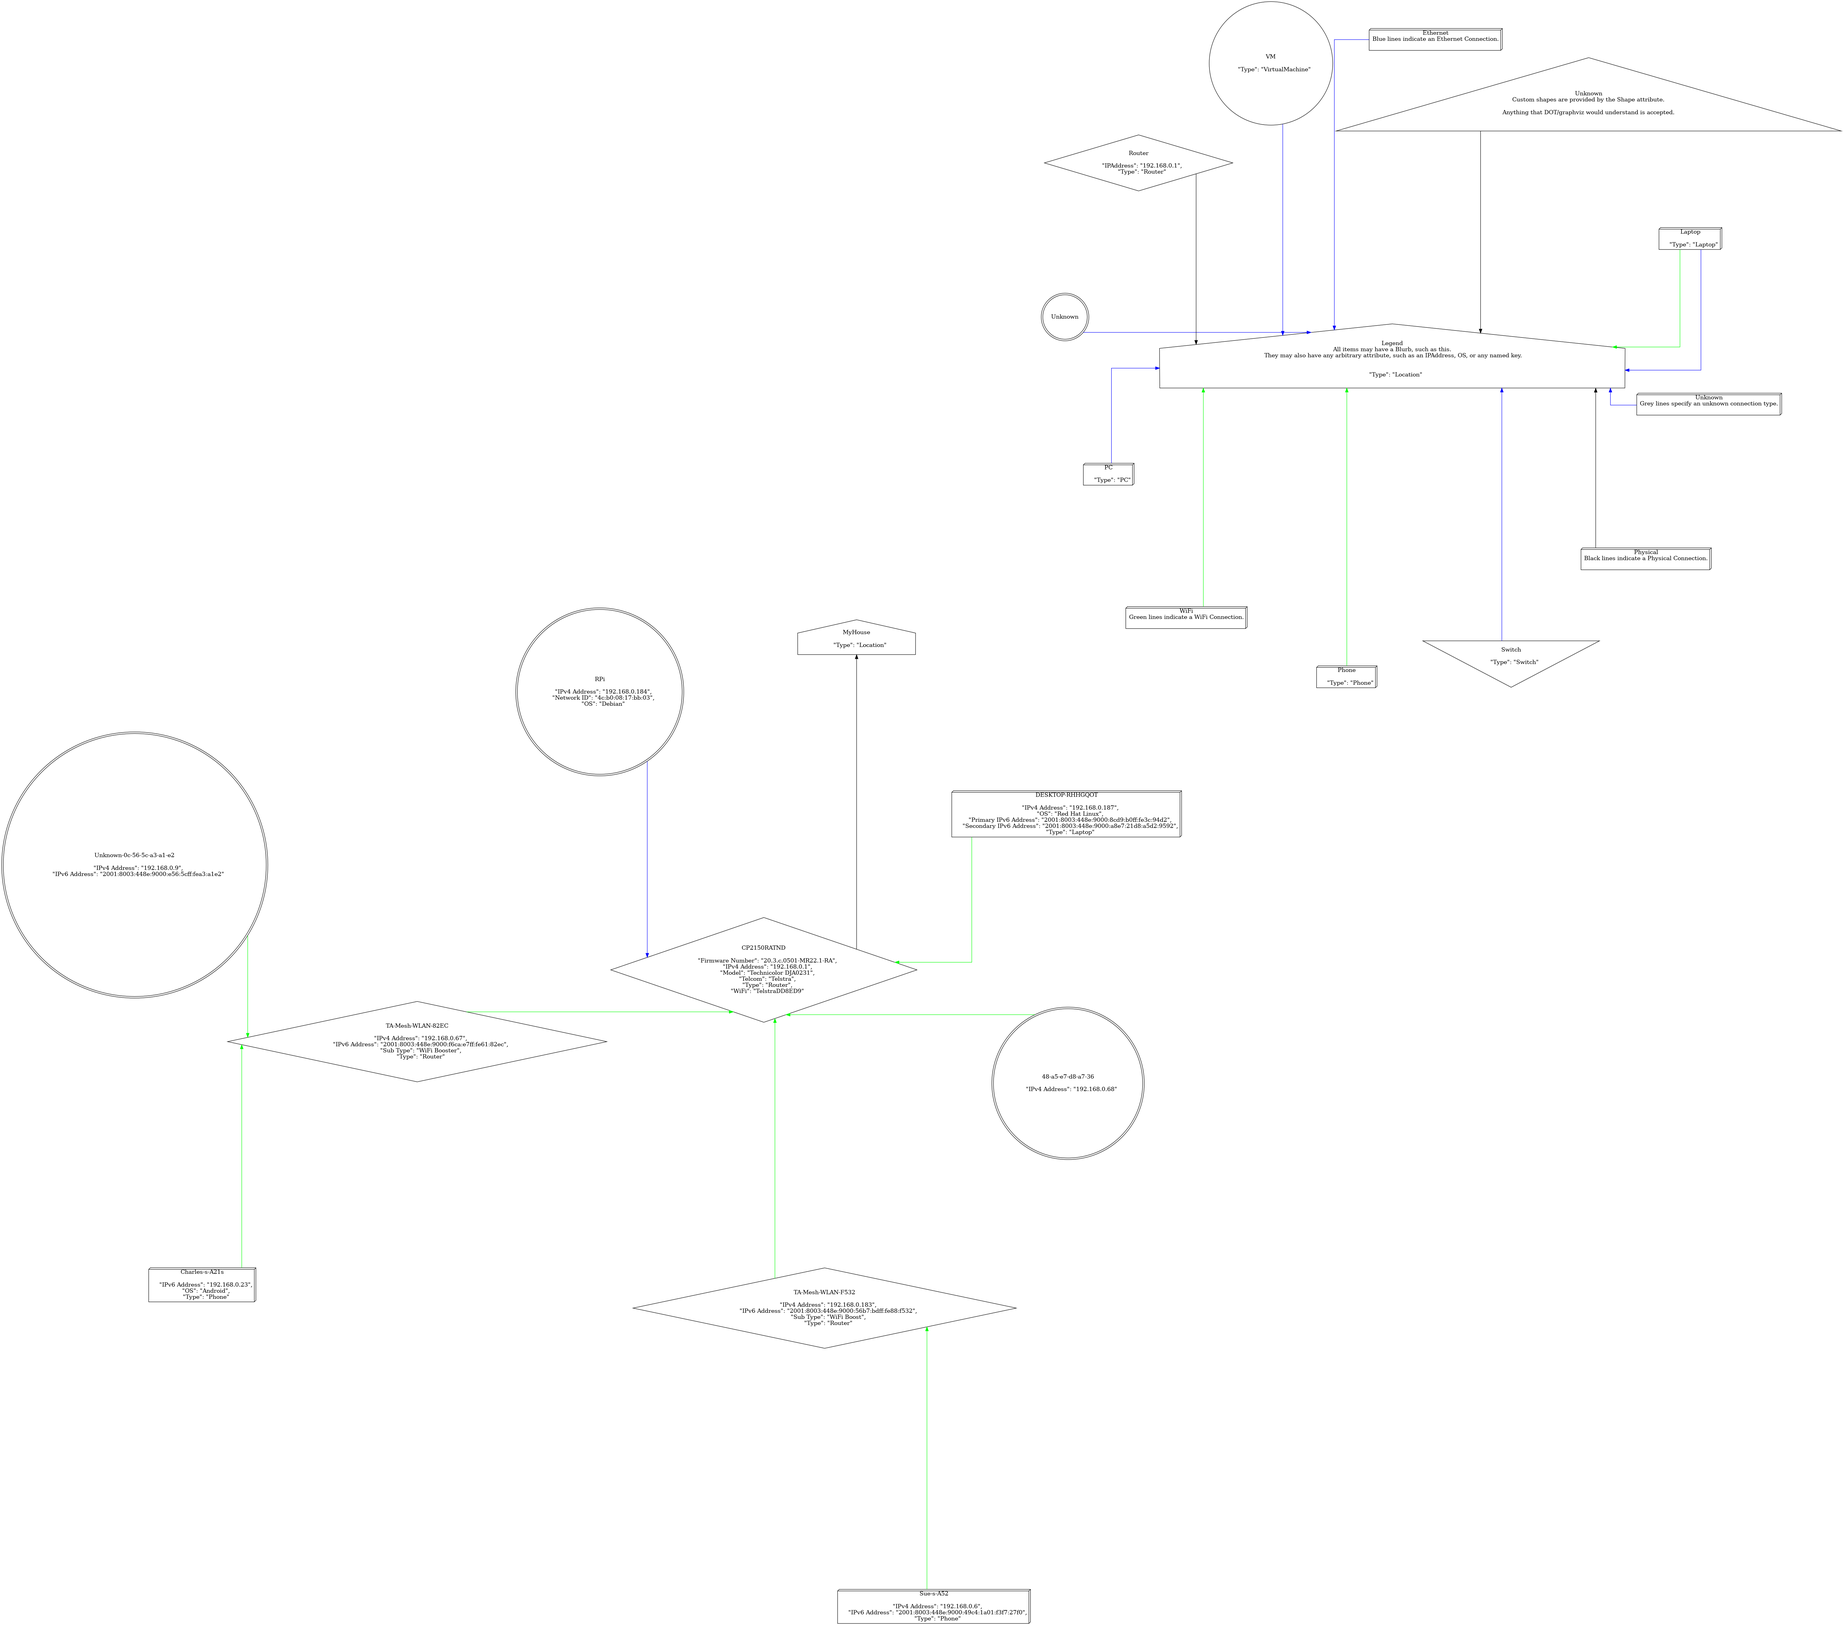
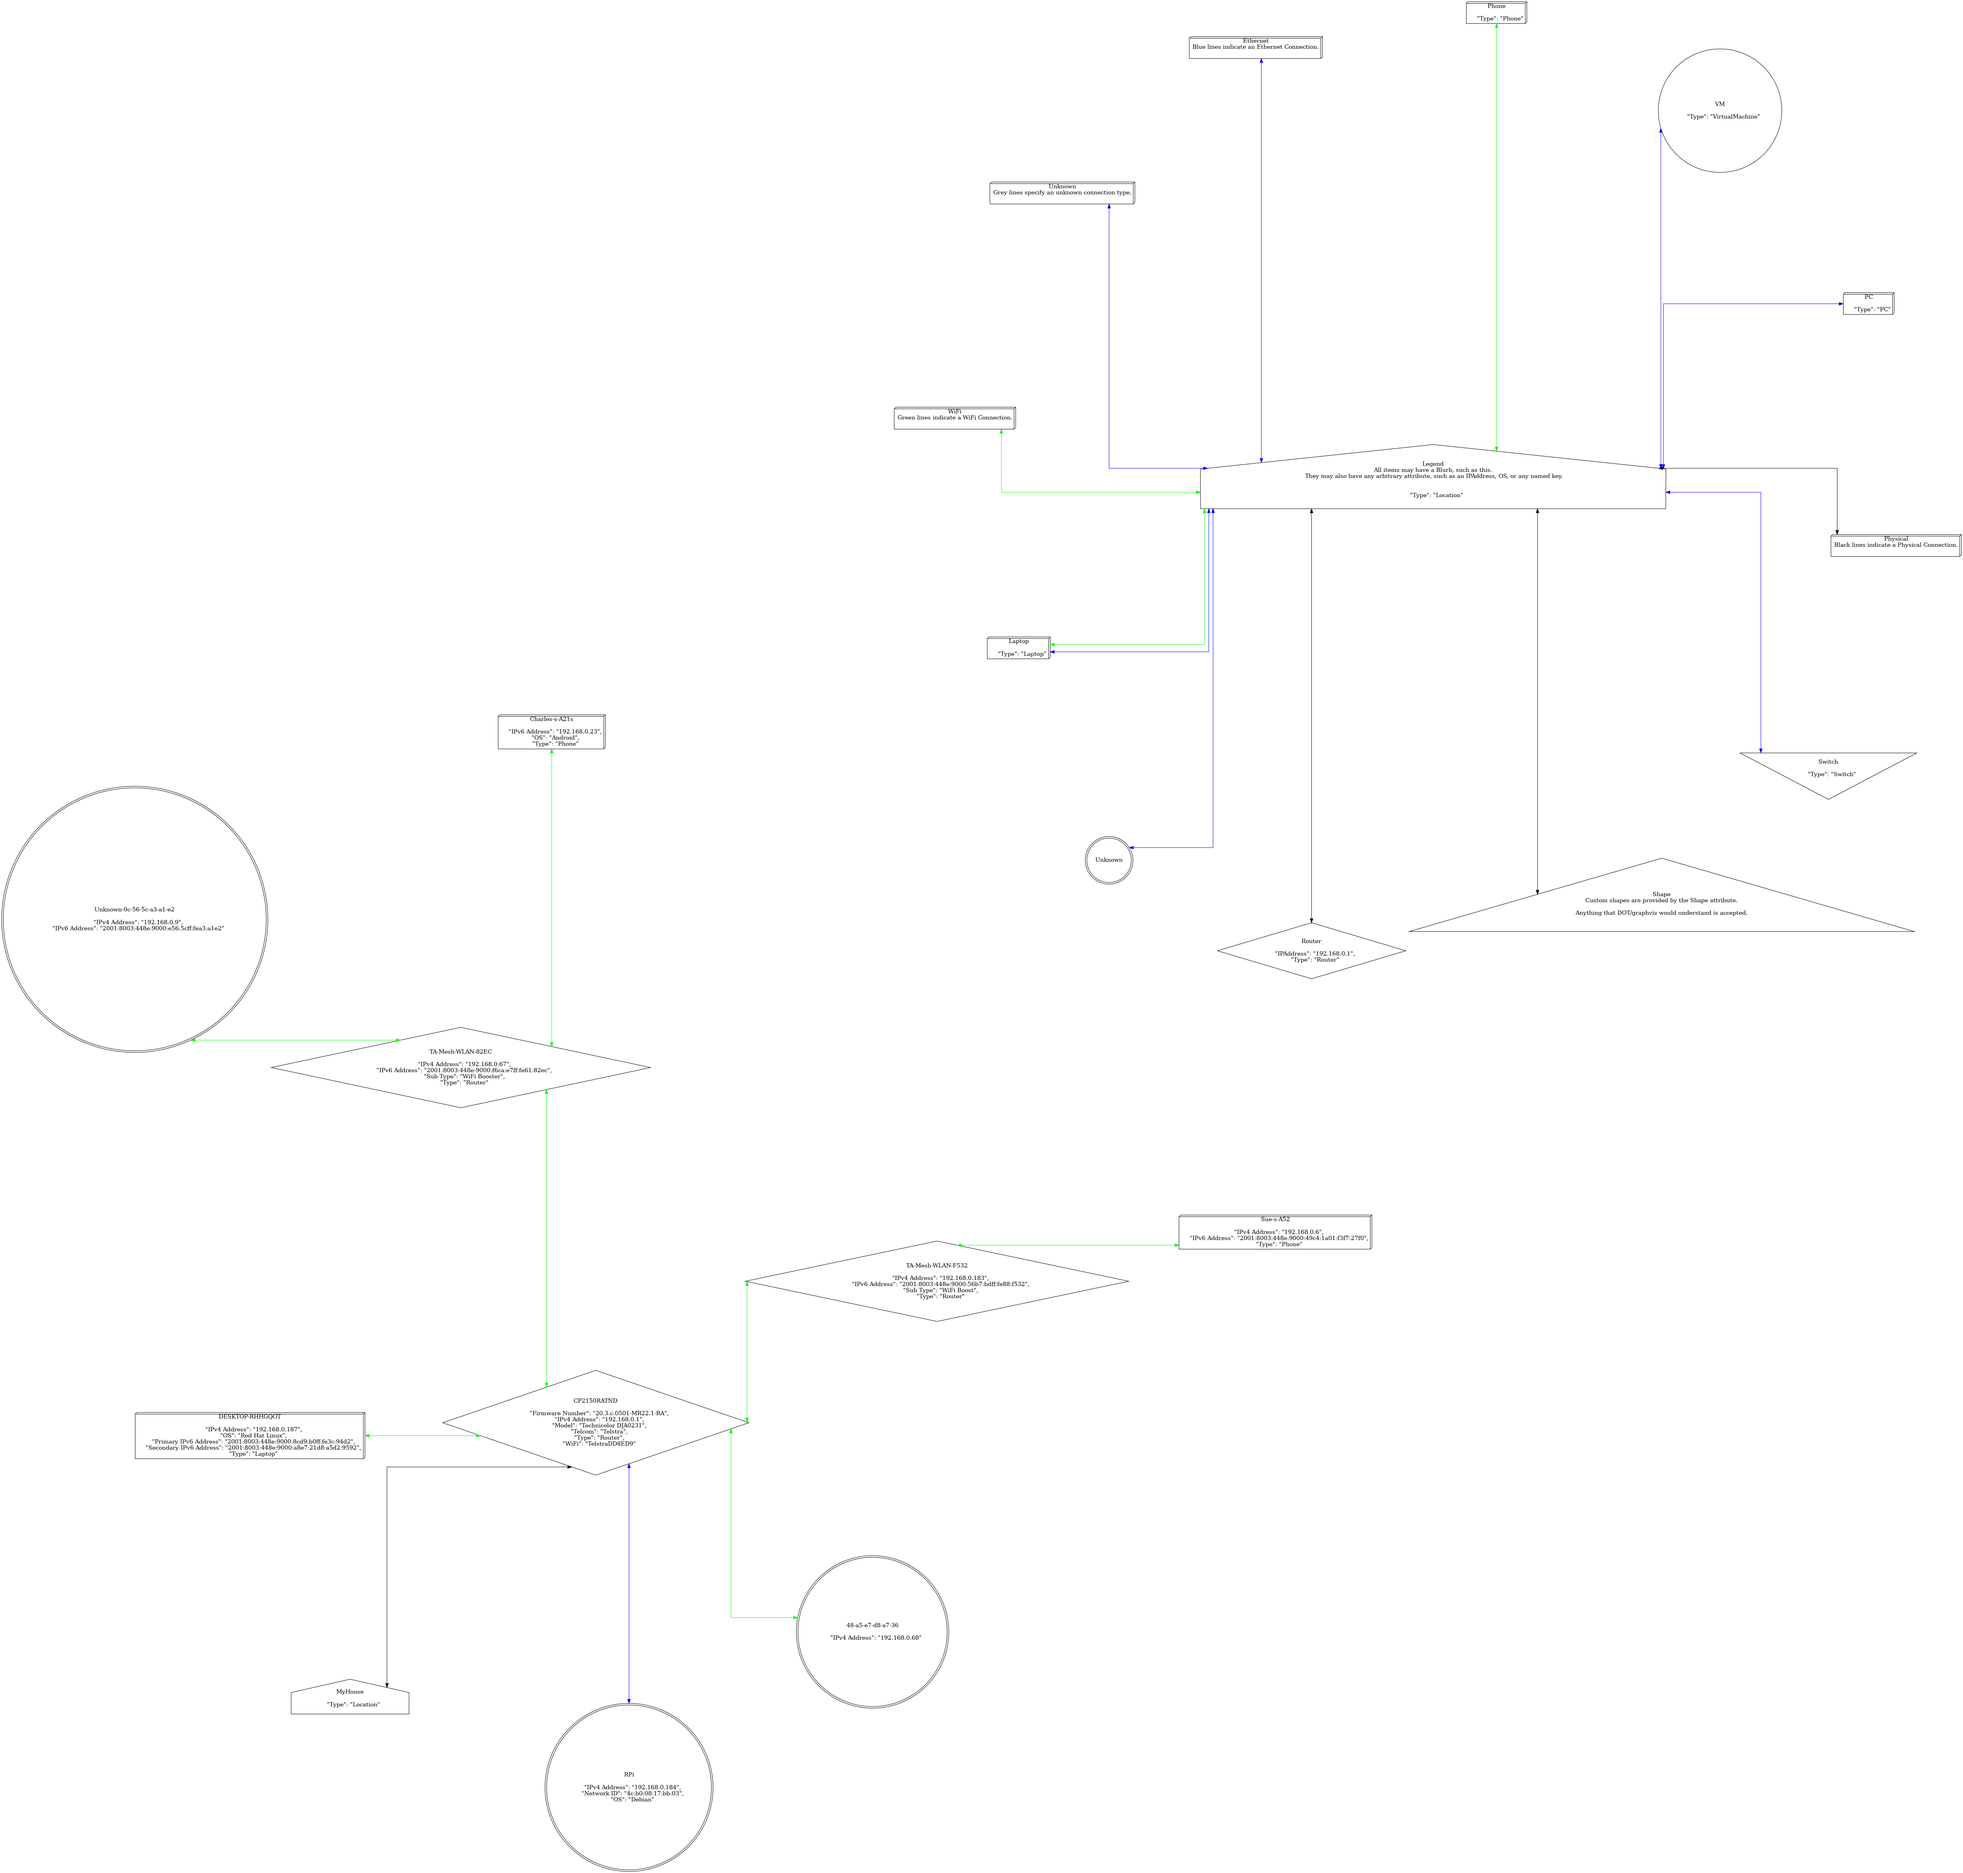
Better display

diff --git a/networkMapper.py b/networkMapper.py
@@ -209,9 +209,9 @@ VM:{prefix}LegendVM is connected to Legend:{prefix}LegendLoc
 Unknown:{prefix}LegendUnknown has a Blurb of "no type given"
 Unknown:{prefix}Legend is connected to Legend:{prefix}LegendLoc
 
-Unknown:{prefix}Legend2 has a Shape of "triangle"
-Unknown:{prefix}Legend2 has a Blurb of "Custom shapes are provided by the Shape attribute.\\nAnything that DOT/graphviz would understand is accepted."
-Unknown:{prefix}Legend2 is connected to Legend:{prefix}LegendLoc via Physical
+Shape:{prefix}Legend2 has a Shape of "triangle"
+Shape:{prefix}Legend2 has a Blurb of "Custom shapes are provided by the Shape attribute.\\nAnything that DOT/graphviz would understand is accepted."
+Shape:{prefix}Legend2 is connected to Legend:{prefix}LegendLoc via Physical
 	""".format(prefix=secrets.token_hex(16)).split("\n")
 
 def main(tree, output_filename, require_legend=True):
@@ -363,13 +363,13 @@ def main(tree, output_filename, require_legend=True):
 						edges[o_a + ":sw" + o_b.split(":", 1)[0] + rel['kind'].lower()]
 					except KeyError:
 						edges[o_a + ":sw" + o_b.split(":", 1)[0] + rel['kind'].lower()] = True
-						sub.edge(o_a + ":sw", o_b.split(":", 1)[0], color=colour_v)
+						sub.edge(o_a + ":sw", o_b.split(":", 1)[0], color=colour_v, dir='both')
 				else:
 					try:
 						edges[o_a + o_b.split(":", 1)[0] + rel['kind'].lower()]
 					except KeyError:
 						edges[o_a + o_b.split(":", 1)[0] + rel['kind'].lower()] = True
-						sub.edge(o_a, o_b.split(":", 1)[0], color=colour_v)
+						sub.edge(o_a, o_b.split(":", 1)[0], color=colour_v, dir='both')
 
 	p = pathlib.Path(output_filename)
 	dot.format = p.suffix[1:]
@@ -391,6 +391,8 @@ def cli():
 
 	tree = parse_file(args.input_file, args.legend)
 	main(tree, args.output_file, args.legend)
+
+	# TODO: Only render legend option...?
 
 if __name__ == "__main__":
 	cli()
